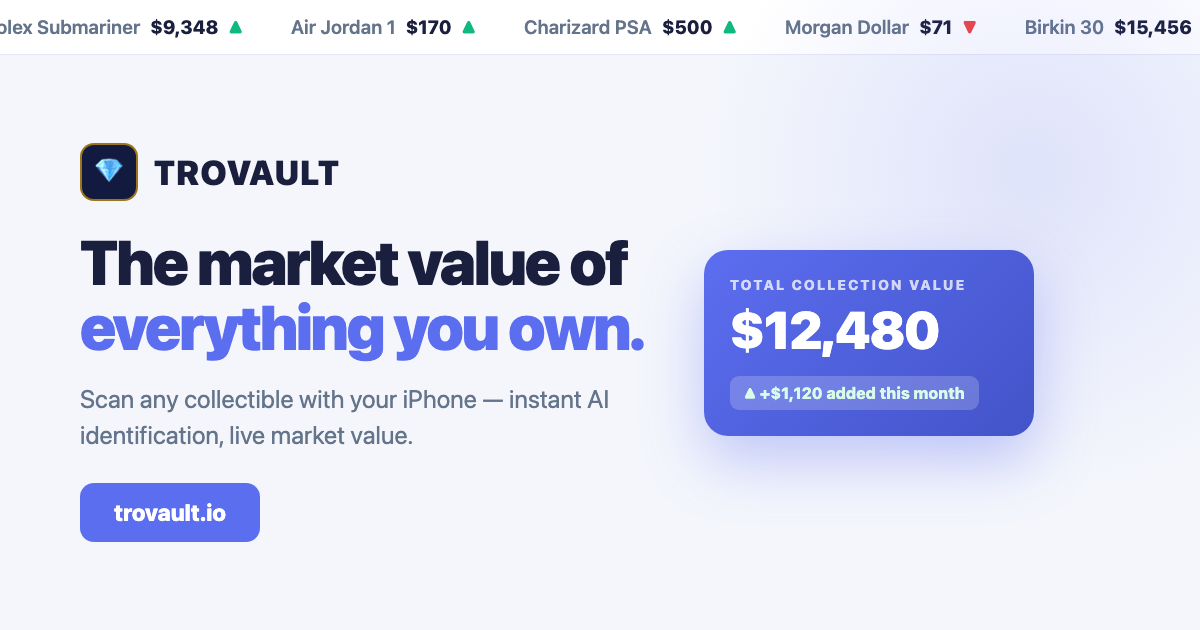
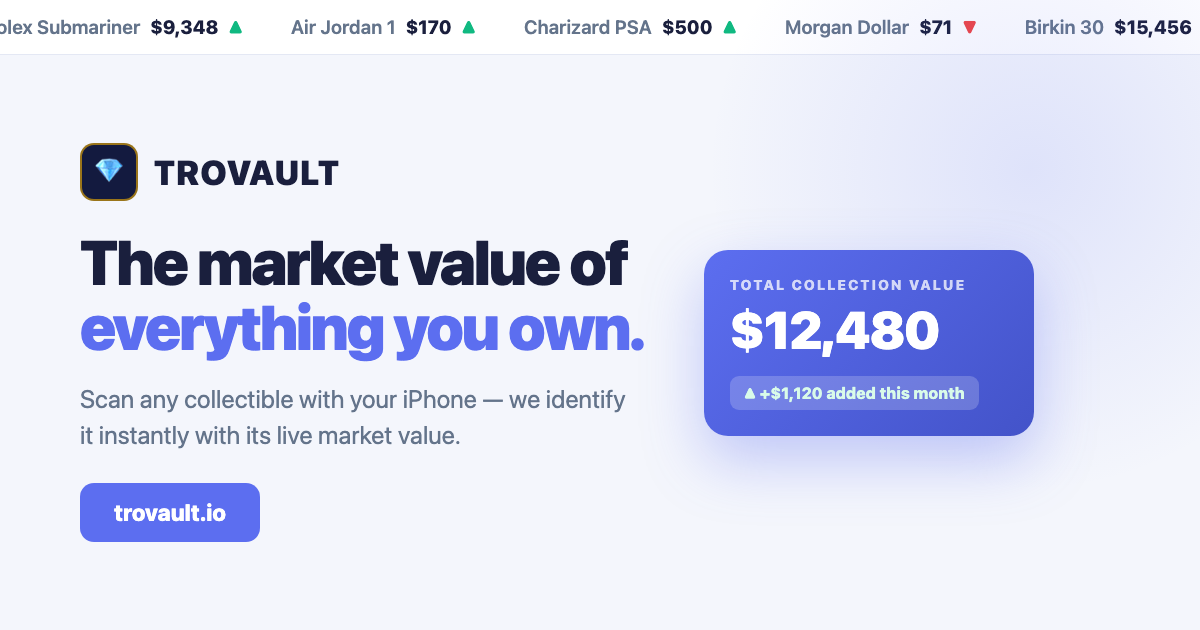
Landing copy: replace AI phrasing with we

Changed region(s): [[0.0617, 0.6635, 0.37, 0.7238], [0.4317, 0.6032, 0.5242, 0.6635]]

diff --git a/web/index.html b/web/index.html
@@ -4,21 +4,21 @@
 <meta charset="UTF-8">
 <meta name="viewport" content="width=device-width, initial-scale=1.0">
 <title>Trovault — Know What Your Collection Is Worth</title>
-<meta name="description" content="Scan any collectible with your iPhone and get an instant AI identification and live market value. Coins, cards, watches, sneakers, comics and more.">
+<meta name="description" content="Scan any collectible with your iPhone — we identify it instantly and give you its live market value. Coins, cards, watches, sneakers, comics and more.">
 <link rel="icon" type="image/png" sizes="32x32" href="/favicon-32.png">
 <link rel="apple-touch-icon" href="/apple-touch-icon.png">
 <link rel="canonical" href="https://trovault.io/">
 <meta property="og:type" content="website">
 <meta property="og:site_name" content="Trovault">
 <meta property="og:title" content="Trovault — The market value of everything you own">
-<meta property="og:description" content="Scan any collectible with your iPhone — instant AI identification, live market value. Coins, cards, watches, sneakers, comics and more.">
+<meta property="og:description" content="Scan any collectible with your iPhone — we identify it instantly with its live market value. Coins, cards, watches, sneakers, comics and more.">
 <meta property="og:url" content="https://trovault.io/">
 <meta property="og:image" content="https://trovault.io/og-image.png">
 <meta property="og:image:width" content="1200">
 <meta property="og:image:height" content="630">
 <meta name="twitter:card" content="summary_large_image">
 <meta name="twitter:title" content="Trovault — The market value of everything you own">
-<meta name="twitter:description" content="Scan any collectible with your iPhone — instant AI identification, live market value.">
+<meta name="twitter:description" content="Scan any collectible with your iPhone — we identify it instantly with its live market value.">
 <meta name="twitter:image" content="https://trovault.io/og-image.png">
 <style>
   /* Palette mirrors the app: src/constants/colors.js */
@@ -281,7 +281,7 @@
   <div>
     <span class="hero-badge">📱 Launching on the App Store</span>
     <h1>The market value of <span class="hl">everything you own.</span></h1>
-    <p class="sub">Point your iPhone at any collectible — coins, cards, watches, sneakers, comics, art — and get an instant AI identification with a live market valuation. Your whole collection, tracked like a portfolio.</p>
+    <p class="sub">Point your iPhone at any collectible — coins, cards, watches, sneakers, comics, art — and we identify it instantly with a live market valuation. Your whole collection, tracked like a portfolio.</p>
 
     <form class="capture" id="waitlist-form">
       <input type="email" id="waitlist-email" placeholder="you@email.com" required aria-label="Email address">
@@ -352,8 +352,8 @@
     </div>
     <div class="step">
       <div class="n">2</div>
-      <h3>AI identifies it</h3>
-      <p>Our AI pins down exactly what you have: maker, year, edition, condition — backed by live web research.</p>
+      <h3>We identify it</h3>
+      <p>We pin down exactly what you have: maker, year, edition, condition — backed by live web research.</p>
     </div>
     <div class="step">
       <div class="n">3</div>

diff --git a/web/og.html b/web/og.html
@@ -73,7 +73,7 @@
     <div>
       <div class="brand"><span class="gem">💎</span><span class="brand-name">TROVAULT</span></div>
       <h1>The market value of<br><span class="hl">everything you own.</span></h1>
-      <p class="sub">Scan any collectible with your iPhone — instant AI identification, live market value.</p>
+      <p class="sub">Scan any collectible with your iPhone — we identify it instantly with its live market value.</p>
       <span class="cta">trovault.io</span>
     </div>
     <div class="card">
